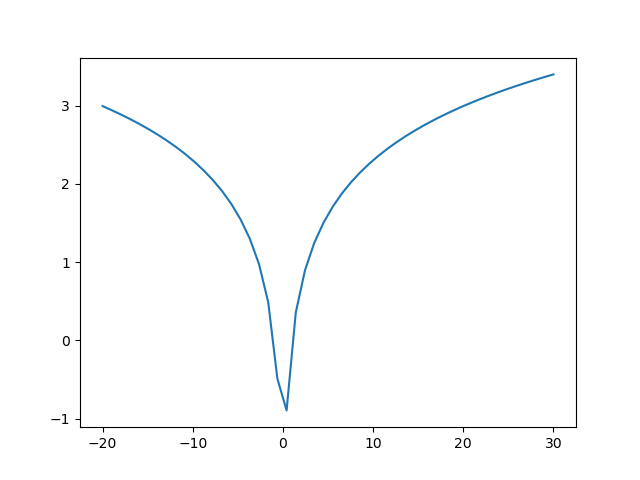
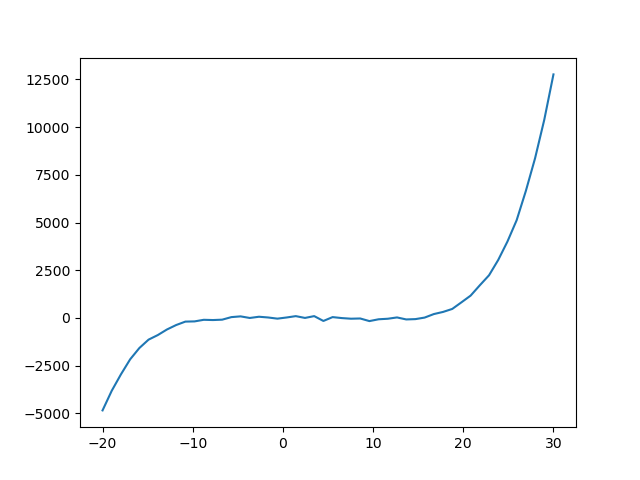
New functions for extrapolation

diff --git a/Extrapolation/Extrapolation/Extrapolation.cpp b/Extrapolation/Extrapolation/Extrapolation.cpp
@@ -138,7 +138,7 @@ void write_file(std::string file_path, std::vector<double> x_test, std::vector<d
     }
 
     else
-        std::cout << "There is some problems with file" << std::endl;
+        std::cout << "There are some problems with file" << std::endl;
 }
 
 
@@ -191,7 +191,7 @@ int main()
 
 
         // LSE with GD
-        mnk_gradient LSE;
+        mnk_gradient LSE(3, 100, 1000);
 
         auto start2 = std::chrono::high_resolution_clock::now();
         prediction = LSE.PredictValues(x_train, y_train, x_test);
@@ -208,9 +208,35 @@ int main()
 
         // EXP_SMOOTHING
 
+        auto start3 = std::chrono::high_resolution_clock::now();
+        //prediction = LSE.EXP_SMOOTHING(x_train, y_train, x_test);
+        auto stop3 = std::chrono::high_resolution_clock::now();
 
+        auto duration3 = std::chrono::duration_cast<std::chrono::microseconds>(stop3- start3);
+
+        std::cout << "LSE_GRAD working: " << duration2.count() << " microseconds" << std::endl;
+        std::cout << "mean absolute error in file " << name << ": " << mae(y_test, prediction) << std::endl;
+        std::cout << "r2 score in file " << name << ": " << r2_score(y_test, prediction) << std::endl;
+        std::cout << "SMAPE in file " << name << ": " << SMAPE(y_test, prediction) << "%" << std::endl << std::endl;
+
+        //write_file("data/" + name + "_test", x_test, y_test, prediction);
+
+
+        // LINEAR EXT
+
+        auto start4 = std::chrono::high_resolution_clock::now();
+        //prediction = LSE.LINEAR_EXTRAPOLATION(x_train, y_train, x_test);
+        auto stop4 = std::chrono::high_resolution_clock::now();
+
+        auto duration4 = std::chrono::duration_cast<std::chrono::microseconds>(stop4 - start4);
+
+        std::cout << "LSE_GRAD working: " << duration2.count() << " microseconds" << std::endl;
+        std::cout << "mean absolute error in file " << name << ": " << mae(y_test, prediction) << std::endl;
+        std::cout << "r2 score in file " << name << ": " << r2_score(y_test, prediction) << std::endl;
+        std::cout << "SMAPE in file " << name << ": " << SMAPE(y_test, prediction) << "%" << std::endl << std::endl;
+
+        //write_file("data/" + name + "_test", x_test, y_test, prediction);
     }
-
 
     return 0;
 }

diff --git a/Extrapolation/Extrapolation/data/data_generator.py b/Extrapolation/Extrapolation/data/data_generator.py
@@ -3,21 +3,24 @@ from matplotlib import pyplot as plt
 np.random.seed(42)
 
 x = np.linspace(-20, 30, 50)
-functions = [lambda x: np.sin(x),
-             lambda x: np.log(abs(x)),
-             lambda x: (x-15)*(x+4)*(x-3)*(x+2)*(x-1) / 1000,
-             lambda x: (x-5)*(x+5)*(x-1)/30 + np.random.randint(-1, 1)
-            ]
 
-for count, func in enumerate(functions):
+y0 = np.sin(x) + np.random.normal(0, 1, 50)
+y1 = (x-15)*(x+4)*(x-3)*(x+2)*(x-1) / 1000 + np.random.normal(0, 60, 50)
+y2 = (x-5)*(x+5)*(x-1)/30 + np.random.normal(0, 150, 50)
+y3 = 0.01*x + np.random.normal(0, 6, 50)
+
+y_all = [y0, y1, y2, y3]
+
+
+for count, y in enumerate(y_all):
     with open(str(count), 'w') as f:
         for elem in x[:-1]:
             f.write(str(elem) + ' ')
         f.write(str(x[-1]) + '\n')
 
-        for elem in x[:-1]:
-            f.write(str(func(elem)) + ' ')
-        f.write(str(func(x[-1])) + '\n')
+        for elem in y[:-1]:
+            f.write(str(elem) + ' ')
+        f.write(str(y[-1]) + '\n')
 
 
 
